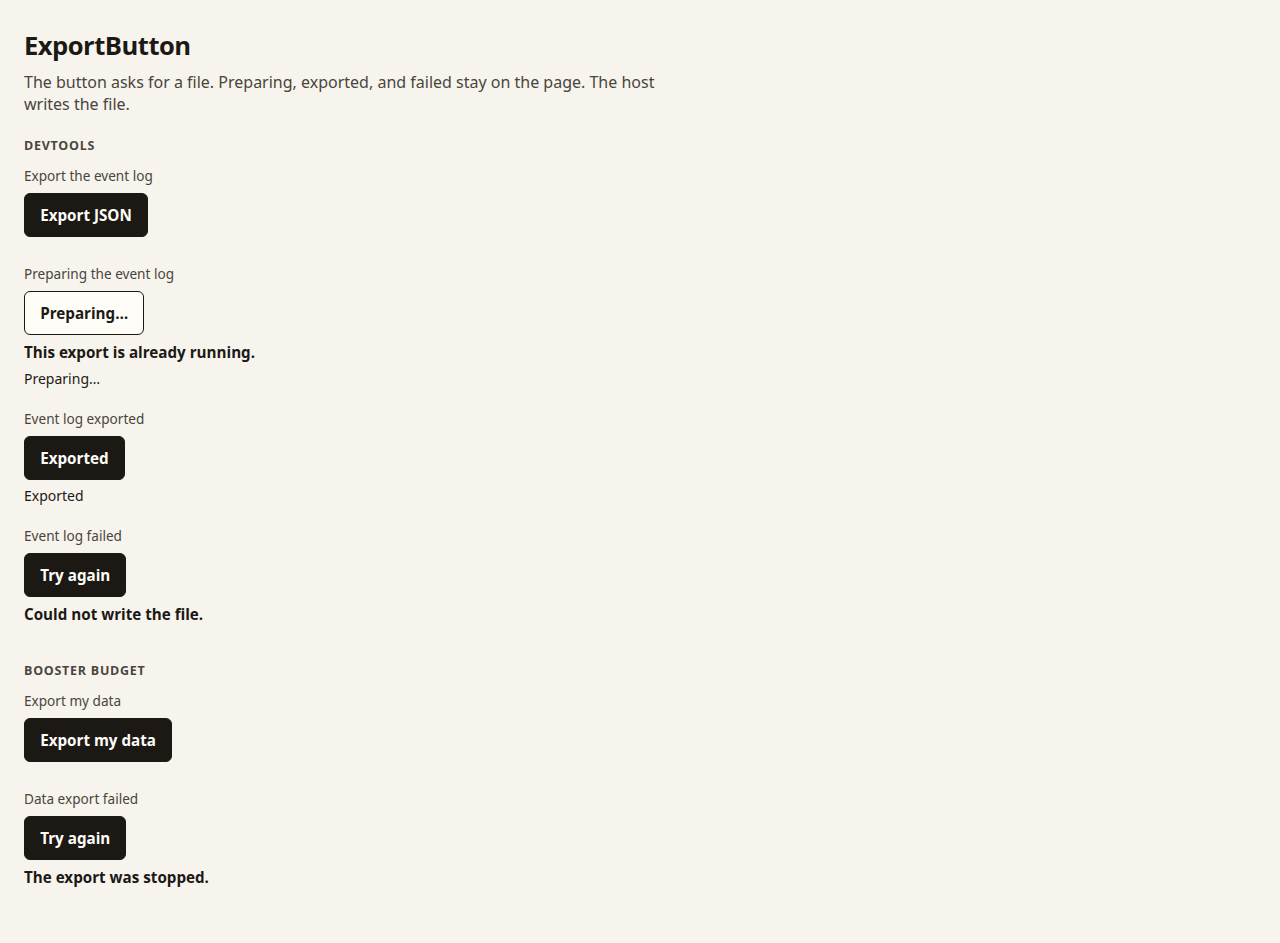
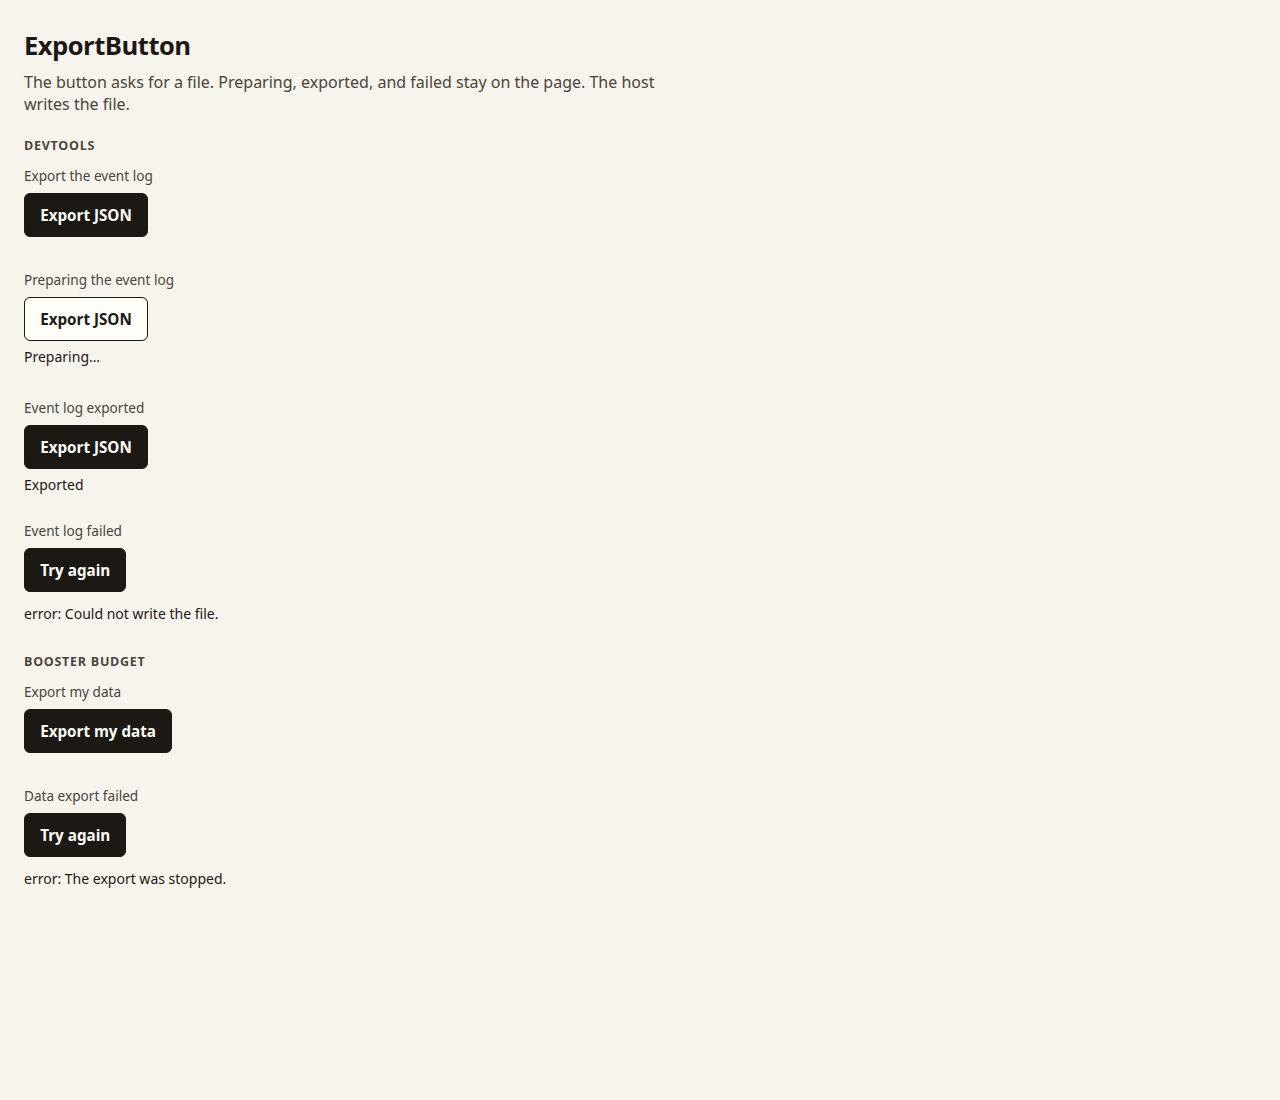
fix(components): announce the first export once
Preparing, ready, and failed each appear in the live region and nowhere
else. A second click keeps the progress message. The button keeps the
action name.

Changed region(s): [[0.0, 0.369, 0.2188, 0.9533], [0.0, 0.0308, 0.5312, 0.3383]]

diff --git a/packages/ignite-components/src/export-button/export-button.a11y.test.ts b/packages/ignite-components/src/export-button/export-button.a11y.test.ts
@@ -31,22 +31,29 @@ afterEach(() => {
 
 describe("ExportButton accessibility", () => {
 	it("puts the failure in text and marks the button busy only while preparing", () => {
-		const { element, view } = mount();
-		const reasons = view.getAllByText("Could not write the file.");
-		expect(reasons.length).toBeGreaterThan(0);
+		const { element, root, view } = mount();
+		expect(view.getAllByText("error: Could not write the file.")).toHaveLength(
+			1,
+		);
 		expect(
-			reasons.some((node) => node.getAttribute("aria-hidden") !== "true"),
-		).toBe(true);
+			root.querySelector("[aria-live='assertive']")?.textContent,
+		).toContain("error: Could not write the file.");
+		expect(root.querySelector("p.reason")).toBeNull();
 		const retry = view.getByRole("button", { name: "Try again" });
 		expect(retry.getAttribute("aria-disabled")).toBe("false");
 		retry.click();
-		const preparing = view.getByRole("button", { name: "Preparing…" });
+		const preparing = view.getByRole("button", { name: "Export JSON" });
 		expect(preparing.getAttribute("aria-disabled")).toBe("true");
 		expect(preparing.hasAttribute("aria-busy")).toBe(false);
-		expect(view.getByText("This export is already running.")).toBeTruthy();
+		expect(view.getAllByText("Preparing…")).toHaveLength(1);
+		expect(root.querySelector("[aria-live='polite']")?.textContent).toContain(
+			"Preparing…",
+		);
+		expect(view.queryByText("already running")).toBeNull();
 		const busy = element.shadowRoot?.querySelector("[aria-busy='true']");
 		expect(busy?.getAttribute("role")).toBe("progressbar");
 		expect(busy?.tagName).not.toBe("BUTTON");
+		expect(busy?.textContent?.trim() ?? "").toBe("");
 		expect(
 			element.shadowRoot?.querySelector("[aria-hidden='true']"),
 		).toBeNull();
@@ -62,12 +69,18 @@ describe("ExportButton accessibility", () => {
 		host.reset();
 		host.setFormat("csv");
 		expect(view.getByRole("button", { name: "Export CSV" })).toBeTruthy();
+		const polite = element.shadowRoot?.querySelector("[aria-live='polite']");
+		expect(polite?.textContent?.trim() ?? "").toBe("");
 		view.getByRole("button", { name: "Export CSV" }).click();
 		expect(view.getByRole("progressbar").getAttribute("aria-busy")).toBe(
 			"true",
 		);
+		expect(view.getAllByText("Preparing…")).toHaveLength(1);
+		expect(polite?.textContent).toContain("Preparing…");
 		host.succeed();
-		expect(view.getAllByText("Exported").length).toBeGreaterThan(0);
+		expect(view.getAllByText("Exported")).toHaveLength(1);
+		expect(polite?.textContent).toContain("Exported");
+		expect(view.getByRole("button", { name: "Export CSV" })).toBeTruthy();
 		expect(element.shadowRoot?.querySelector("[aria-busy='true']")).toBeNull();
 	});
 

diff --git a/packages/ignite-components/src/export-button/export-button.dom.test.ts b/packages/ignite-components/src/export-button/export-button.dom.test.ts
@@ -55,18 +55,18 @@ describe("ExportButton DOM", () => {
 			element.setAttribute("readylabel", fixture.input.readyLabel);
 			showPhase(element, fixture.input.phase, fixture.input.reason);
 			const name =
-				fixture.input.phase === "preparing"
-					? fixture.input.pendingLabel
-					: fixture.input.phase === "ready"
-						? fixture.input.readyLabel
-						: fixture.input.phase === "failed"
-							? "Try again"
-							: fixture.input.label;
+				fixture.input.phase === "failed" ? "Try again" : fixture.input.label;
 			expect(view.getByRole("button", { name })).toBeTruthy();
+			if (fixture.input.phase === "preparing") {
+				expect(view.getAllByText(fixture.input.pendingLabel)).toHaveLength(1);
+			}
+			if (fixture.input.phase === "ready") {
+				expect(view.getAllByText(fixture.input.readyLabel)).toHaveLength(1);
+			}
 			if (fixture.input.reason) {
-				expect(view.getAllByText(fixture.input.reason).length).toBeGreaterThan(
-					0,
-				);
+				expect(
+					view.getAllByText(`error: ${fixture.input.reason}`),
+				).toHaveLength(1);
 			}
 		}
 	});
@@ -84,11 +84,12 @@ describe("ExportButton DOM", () => {
 		view.getByRole("button", { name: "Export JSON" }).click();
 		expect(formats).toEqual(["json"]);
 		expect(hostClicks).toEqual([1]);
-		view.getByRole("button", { name: "Preparing…" }).click();
+		view.getByRole("button", { name: "Export JSON" }).click();
 		expect(formats).toEqual(["json"]);
 		expect(hostClicks).toEqual([1]);
 		element.succeed();
-		expect(view.getByRole("button", { name: "Exported" })).toBeTruthy();
+		expect(view.getAllByText("Exported")).toHaveLength(1);
+		expect(view.getByRole("button", { name: "Export JSON" })).toBeTruthy();
 	});
 
 	it("reads a lowercased readylabel attribute after connect", async () => {
@@ -97,6 +98,7 @@ describe("ExportButton DOM", () => {
 		await new Promise((resolve) => setTimeout(resolve, 0));
 		element.export();
 		element.succeed();
-		expect(view.getByRole("button", { name: "File ready" })).toBeTruthy();
+		expect(view.getAllByText("File ready")).toHaveLength(1);
+		expect(view.getByRole("button", { name: "Export JSON" })).toBeTruthy();
 	});
 });

diff --git a/packages/ignite-components/src/export-button/export-button.view.tsx b/packages/ignite-components/src/export-button/export-button.view.tsx
@@ -4,6 +4,7 @@ import {
 	liveStatusRegion,
 	liveStatusRegionStyles,
 } from "../live-status/live-status.region";
+import { cliTone } from "../live-status/live-status.source";
 import { catalogHostStyles } from "../styles";
 import type {
 	ExportButtonCommands,
@@ -46,7 +47,14 @@ button:focus { outline: 2px solid var(--catalog-fg); outline-offset: 2px; }
 export function exportButtonView(
 	ctx: ExportButtonViewContext,
 ): IgniteJsxElement {
-	const unavailable = ctx.canExport ? null : ctx.canExportRefusal;
+	const polite =
+		ctx.state === "preparing"
+			? ctx.pendingLabel
+			: ctx.state === "ready"
+				? ctx.readyLabel
+				: null;
+	const assertive =
+		ctx.state === "failed" && ctx.reason ? cliTone("error", ctx.reason) : null;
 	return (
 		<>
 			<style>{styles}</style>
@@ -66,19 +74,13 @@ export function exportButtonView(
 				>
 					{ctx.buttonLabel}
 				</button>
-				{ctx.showReason ? <p class="reason">{ctx.reason}</p> : null}
-				{unavailable ? <p class="reason">{unavailable}</p> : null}
 				{liveStatusRegion({
 					instanceId: ctx.instanceId,
-					polite:
-						ctx.state === "ready" || ctx.duplicateExport
-							? ctx.statusLine
-							: null,
-					assertive: ctx.state === "failed" ? ctx.reason : null,
+					polite,
+					assertive,
 					busy: ctx.isPreparing,
 					progress: ctx.isPreparing ? "indeterminate" : "none",
-					settled: ctx.isReady ? ctx.readyLabel : null,
-					busyText: ctx.pendingLabel,
+					settled: null,
 				})}
 			</div>
 		</>

diff --git a/packages/ignite-components/src/export-button/export-button.core.ts b/packages/ignite-components/src/export-button/export-button.core.ts
@@ -72,13 +72,7 @@ export function projectExportButton(
 	const reason = failed ? snapshot.context.reason : null;
 	const statusLine = snapshot.context.statusLine;
 	const duplicateExport = snapshot.context.duplicateExport;
-	const buttonLabel = preparing
-		? snapshot.context.pendingLabel
-		: ready
-			? snapshot.context.readyLabel
-			: failed
-				? "Try again"
-				: snapshot.context.label;
+	const buttonLabel = failed ? "Try again" : snapshot.context.label;
 	const state: ExportButtonStateName = preparing
 		? "preparing"
 		: ready

diff --git a/packages/ignite-components/src/export-button/export-button.states.test.ts b/packages/ignite-components/src/export-button/export-button.states.test.ts
@@ -165,7 +165,12 @@ describe("ExportButton states", () => {
 			expect(core.get("states")).toMatchObject({
 				state: "preparing",
 				duplicateExport: true,
-				a11y: { cli: "already running", mcp: { status: "busy" } },
+				statusLine: "in progress",
+				pendingLabel: "Preparing…",
+				a11y: {
+					cli: "already running",
+					mcp: { status: "busy", isError: false },
+				},
 			});
 			await core.execute({ command: "fail", input: "Disk full." });
 			expect(core.get("states").a11y.cli).toBe("error: Disk full.");

diff --git a/packages/ignite-components/src/export-button/export-button.source.ts b/packages/ignite-components/src/export-button/export-button.source.ts
@@ -121,7 +121,6 @@ export const exportButtonMachine = setup({
 		}),
 		noteDuplicate: assign({
 			duplicateExport: () => true,
-			statusLine: () => "already running",
 		}),
 		announceExport: emit(({ context }) => ({
 			type: "export" as const,
